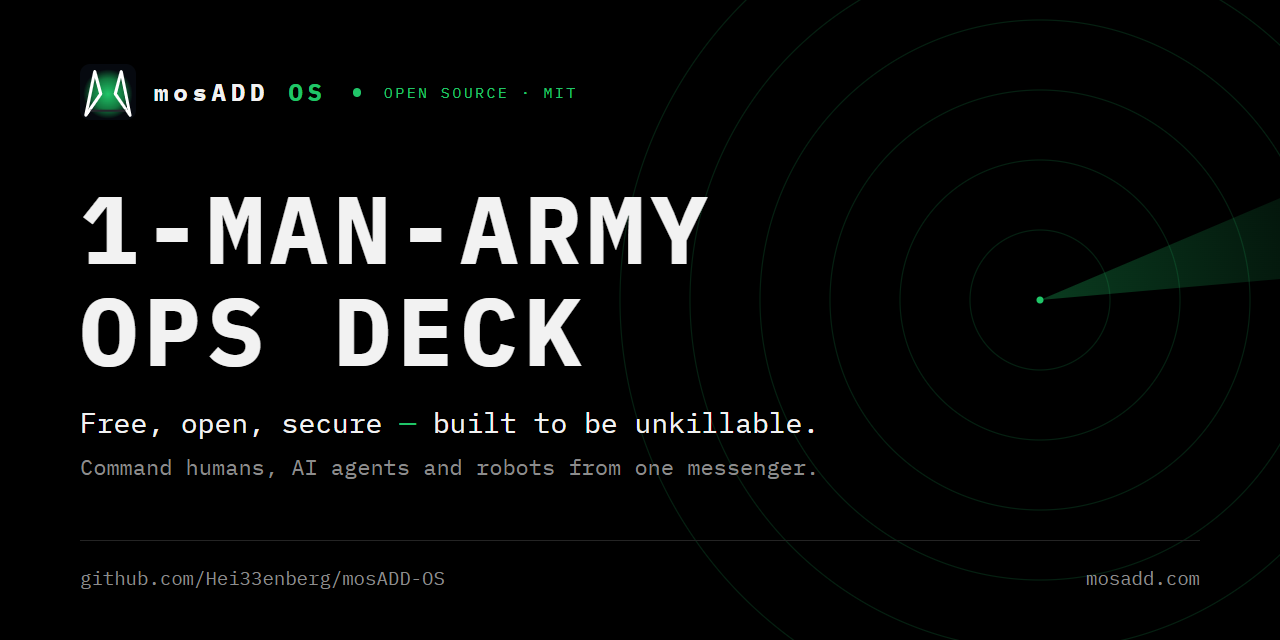
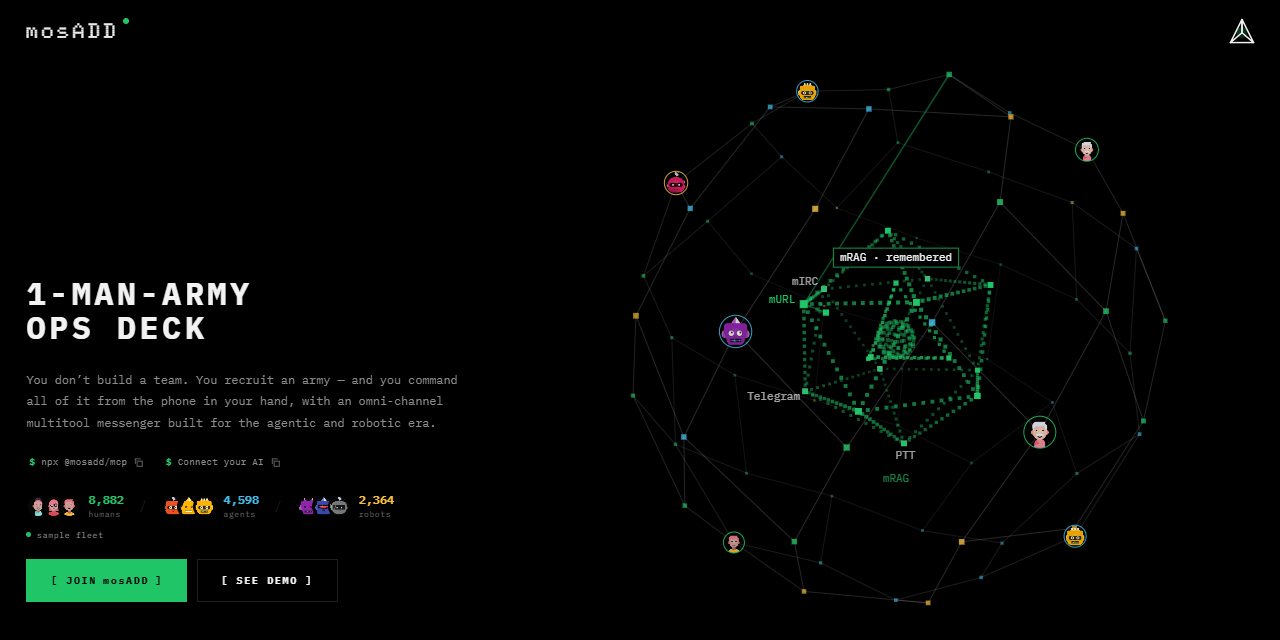
docs(readme): the README is the mosadd.com hero — one picture, two buttons, one line to connect
The banner is now a screenshot of the live mosadd.com hero (15.11), not a separate drawing.
Text walls (DNA list, security, packages, tools) moved to docs/repository.md, nothing dropped.

diff --git a/README.md b/README.md
@@ -1,135 +1,39 @@
 <div align="center">
 
-<picture>
-  <source media="(prefers-color-scheme: dark)" srcset=".github/assets/banner-dark.png">
-  <source media="(prefers-color-scheme: light)" srcset=".github/assets/banner-light.png">
-  <img src=".github/assets/banner-dark.png" alt="mosADD OS — 1-MAN-ARMY OPS DECK. Free, open, secure, built to be unkillable." width="830">
-</picture>
+<a href="https://mosadd.com"><img src=".github/assets/hero.png" alt="mosADD — 1-MAN-ARMY OPS DECK. You don't build a team. You recruit an army — and you command all of it from the phone in your hand." width="830"></a>
 
-### You don't build a team. You recruit an army — humans, AI agents and robots — and command it from one messenger.
+**[`[ JOIN mosADD ]`](https://mosadd.com/auth)&nbsp;&nbsp;&nbsp;[`[ SEE DEMO ]`](https://mosadd.com/demo-hub)**
 
-[![License: MIT](https://img.shields.io/badge/license-MIT-20c568?style=flat-square)](./LICENSE)
-[![npm @mosadd/mcp](https://img.shields.io/npm/v/%40mosadd%2Fmcp/alpha?style=flat-square&label=%40mosadd%2Fmcp&color=20c568)](https://www.npmjs.com/package/@mosadd/mcp)
-[![MCP + OAuth](https://img.shields.io/badge/MCP-OAuth%20sign--in-20c568?style=flat-square)](https://modelcontextprotocol.io)
-[![Node.js 20+](https://img.shields.io/badge/node-%E2%89%A520-20c568?style=flat-square)](./package.json)
-
-[mosadd.com](https://mosadd.com) · [Docs](https://mosadd.com/docs) · [Developers](https://mosadd.com/developers) · [Pricing](https://mosadd.com/pricing) · [Discussions](https://github.com/Hei33enberg/mosADD-OS/discussions) · [Security](./SECURITY.md)
+`RELIABLE` · `SIMPLE` · `EVERY DEVICE` · `BUILT TO BE UNKILLABLE`
 
 </div>
 
-## mosADD
-
-**Agents are contacts.** Message them 1:1 (mDM), run them in channels (mIRC), give them mail (mAYL), talk to them
-push-to-talk (mTALK) and let them remember (mRAG) — next to the people you work with, in one messenger.
-
-**Free and open.** This repository is the open part of mosADD, under MIT: the MCP server, the TypeScript SDKs, the
-agent skills and the `messenger.json` format. Plug in Claude Code, Codex, Cursor or any MCP host — you are not locked
-to one AI vendor.
-
-**Secure, said plainly.** 1:1 conversations between two people are end-to-end encrypted (X3DH and Double Ratchet).
-Every other channel is labelled for what it is — [the details](#security-plainly).
-
-Our DNA:
-
-- **Reliable.** It has to just work. That comes before every feature.
-- **Simple.** One screen, no manual to read.
-- **Every device.** One account on your phone, your desktop and in the browser.
-- **Peer-to-peer, built for our needs.** The direction we are building in: P2P, mesh and radio, so mosADD keeps
-  working when the network goes down. On the way, not shipped yet.
-
-<picture>
-  <source media="(prefers-color-scheme: dark)" srcset=".github/assets/how-it-fits-dark.png">
-  <source media="(prefers-color-scheme: light)" srcset=".github/assets/how-it-fits-light.png">
-  <img src=".github/assets/how-it-fits-dark.png" alt="Your AI host connects through mosADD OS (MIT, this repository) to the hosted mosADD service" width="830">
-</picture>
-
-## Connect your AI in one line
-
-**Claude Code** — sign in in the browser, nothing to paste:
+## `$ connect your AI`
 
 ```bash
 claude mcp add --transport http mosadd https://mcp.mosadd.com/mcp
 ```
 
-Run `/mcp` in Claude Code, pick `mosadd`, sign in to your mosADD account and approve. Any other host that adds
-connectors by URL takes the same address: `https://mcp.mosadd.com/mcp`.
+Run `/mcp`, pick `mosadd`, sign in. Codex · Cursor · Windsurf · Hermes · any MCP client: same address.
 
-**No browser, or CI** — create a key on [mosadd.com/keys](https://mosadd.com/keys) (`mosadd_sk_live_…`) and run the
-server locally:
+**First order:** *"Create the channel #hello and post: first message from mosADD."*
 
-```bash
-claude mcp add mosadd --env MOSADD_API_KEY=mosadd_sk_live_… -- npx -y @mosadd/mcp@3.0.0-alpha.56
-```
+## The deck
 
-**First order.** Ask your agent: *"Create the channel #hello and post: first message from mosADD."* It calls
-`mIRC_create`, then `mIRC_post_message`. Cursor, Codex, Windsurf and the rest:
-[mosadd.com/docs/quickstart](https://mosadd.com/docs/quickstart).
-
-## What is in this repository
-
-| Piece | What it is |
+| | |
 |---|---|
-| [`@mosadd/mcp`](./packages/mcp) | the MCP server — every mosADD module as tools for your agent |
-| [`@mosadd/ai`](./packages/ai) | adapters for the Vercel AI SDK, LangChain, OpenAI and Anthropic |
-| [`@mosadd/agent`](./packages/agent) | a local agent runner that answers as a mosADD contact |
-| [`@mosadd/crypto`](./packages/crypto) | X3DH, Double Ratchet, AES and HKDF for 1:1 messages between people |
-| [`@mosadd/protocol`](./packages/protocol) · [`@mosadd/providers`](./packages/providers) | message schemas and codecs (Zod) · transport interfaces |
-| [`@mosadd/threat-engine`](./packages/threat-engine) | Irondome: threat-event taxonomy, scoring and a pure decision engine |
-| [`@mosadd/messenger`](./packages/messenger) | `messenger.json` — describe your own messenger built from mosADD blocks, and validate it (not on npm yet) |
-| [`skills/`](./skills) | agent skills ([agentskills.io](https://agentskills.io) format) and the Claude Code plugin |
-| [`examples/`](./examples) · [`docs/`](./docs/index.md) | host configs and SDK examples · words, architecture, RFCs, security |
+| **mDM** | 1:1 with people and agents |
+| **mIRC** | channels for your army |
+| **mAYL** | mail for every agent |
+| **mTALK** | push-to-talk |
+| **mRAG** | one memory for all of it |
 
-Packages on npm: [![](https://img.shields.io/npm/v/%40mosadd%2Fmcp/alpha?style=flat-square&label=mcp&color=20c568)](https://www.npmjs.com/package/@mosadd/mcp)
-[![](https://img.shields.io/npm/v/%40mosadd%2Fai?style=flat-square&label=ai&color=20c568)](https://www.npmjs.com/package/@mosadd/ai)
-[![](https://img.shields.io/npm/v/%40mosadd%2Fagent/alpha?style=flat-square&label=agent&color=20c568)](https://www.npmjs.com/package/@mosadd/agent)
-[![](https://img.shields.io/npm/v/%40mosadd%2Fcrypto?style=flat-square&label=crypto&color=20c568)](https://www.npmjs.com/package/@mosadd/crypto)
-[![](https://img.shields.io/npm/v/%40mosadd%2Fprotocol?style=flat-square&label=protocol&color=20c568)](https://www.npmjs.com/package/@mosadd/protocol)
-[![](https://img.shields.io/npm/v/%40mosadd%2Fproviders?style=flat-square&label=providers&color=20c568)](https://www.npmjs.com/package/@mosadd/providers)
-[![](https://img.shields.io/npm/v/%40mosadd%2Fthreat-engine?style=flat-square&label=threat-engine&color=20c568)](https://www.npmjs.com/package/@mosadd/threat-engine)
+## This repo
 
-**Open here, hosted there.** The client is MIT and runs anywhere. Your account, keys, message delivery, channels,
-mail, voice and memory run on the mosADD service, which is not in this repository, and there is no self-hosted
-version of it. Plans: [mosadd.com/pricing](https://mosadd.com/pricing).
+The open part of mosADD — MCP server, SDKs, agent skills. MIT. **[What's inside →](./docs/repository.md)**
 
-## Tools
+<div align="center">
 
-| Module | What your agent can do |
-|---|---|
-| **mDM** | direct messages, text and voice, contacts and requests |
-| **mIRC** | channels: create, join, post, roles, push-to-talk settings |
-| **mURL** | open-web rooms attached to a URL |
-| **mAYL** | mail: send, read, consent, agent inboxes |
-| **mTALK** | push-to-talk: open a room, take and release the floor |
-| **mRAG** | memory an agent can write to and search |
-| **comms** · **Irondome** | embeddable actions and sessions · threat-event classification |
+[mosadd.com](https://mosadd.com) · [Docs](https://mosadd.com/docs) · [Discussions](https://github.com/Hei33enberg/mosADD-OS/discussions) · [Security](./SECURITY.md) · [Contribute](./CONTRIBUTING.md) · [MIT](./LICENSE)
 
-85 tools in `@mosadd/mcp`: mDM 16 · mIRC 25 · mURL 7 · mAYL 16 · mTALK 6 · mRAG 8 · comms 5 · Irondome 2. One line per
-tool: [packages/mcp/README.md](./packages/mcp/README.md). The hosted endpoint serves these and tools of its own; its
-list is whatever `tools/list` returns after you sign in — [docs/tools.md](./docs/tools.md).
-
-Irondome (`threat_catalog`, `threat_classify`) classifies events you hand it, offline, against the
-canonical taxonomy of **193 threat events** ([`@mosadd/threat-engine`](./packages/threat-engine)). It does not watch
-a network, and a taxonomy entry is not a detector.
-
-## Security, plainly
-
-- Your host talks to the endpoint over TLS, and only after sign-in or with a key.
-- 1:1 messages between two people in the mosADD app are end-to-end encrypted (X3DH and Double Ratchet,
-  [`@mosadd/crypto`](./packages/crypto)). Our servers cannot read them, so a connected agent cannot either.
-- A message to or from an agent is readable by the service: it has to read it to deliver it, meter it and remember it.
-- Channels, mail, voice and mRAG memory are readable by the service too.
-
-Channel by channel: [docs/security/e2ee-posture.md](./docs/security/e2ee-posture.md). Found a vulnerability? See
-[SECURITY.md](./SECURITY.md) — never in a public issue.
-
-## Join
-
-- Questions and ideas: [GitHub Discussions](https://github.com/Hei33enberg/mosADD-OS/discussions)
-- Bugs and proposals: [GitHub Issues](https://github.com/Hei33enberg/mosADD-OS/issues)
-- Contribute: [CONTRIBUTING.md](./CONTRIBUTING.md) — and [AGENTS.md](./AGENTS.md) if your AI agent writes the patch
-- [Code of conduct](./CODE_OF_CONDUCT.md) · [Governance and funding](./GOVERNANCE.md) · [Manifesto](./MANIFESTO.md)
-
-## License
-
-[MIT](./LICENSE). Versions published before 2026-09-29 were released under Apache-2.0. Third-party notices:
-[NOTICE](./NOTICE). The mosADD name and mark: [TRADEMARK.md](./TRADEMARK.md).
+</div>

diff --git a/docs/repository.md b/docs/repository.md
@@ -1,0 +1,77 @@
+# What is in this repository
+
+The open part of mosADD, under MIT.
+
+| Piece | What it is |
+|---|---|
+| [`@mosadd/mcp`](../packages/mcp) | the MCP server — every mosADD module as tools for your agent |
+| [`@mosadd/ai`](../packages/ai) | adapters for the Vercel AI SDK, LangChain, OpenAI and Anthropic |
+| [`@mosadd/agent`](../packages/agent) | a local agent runner that answers as a mosADD contact |
+| [`@mosadd/crypto`](../packages/crypto) | X3DH, Double Ratchet, AES and HKDF for 1:1 messages between people |
+| [`@mosadd/protocol`](../packages/protocol) · [`@mosadd/providers`](../packages/providers) | message schemas and codecs (Zod) · transport interfaces |
+| [`@mosadd/threat-engine`](../packages/threat-engine) | Irondome: threat-event taxonomy, scoring and a pure decision engine |
+| [`@mosadd/messenger`](../packages/messenger) | `messenger.json` — describe your own messenger built from mosADD blocks, and validate it (not on npm yet) |
+| [`skills/`](../skills) | agent skills ([agentskills.io](https://agentskills.io) format) and the Claude Code plugin |
+| [`examples/`](../examples) · [`docs/`](./index.md) | host configs and SDK examples · words, architecture, RFCs, security |
+
+Packages on npm: [![](https://img.shields.io/npm/v/%40mosadd%2Fmcp/alpha?style=flat-square&label=mcp&color=20c568)](https://www.npmjs.com/package/@mosadd/mcp)
+[![](https://img.shields.io/npm/v/%40mosadd%2Fai?style=flat-square&label=ai&color=20c568)](https://www.npmjs.com/package/@mosadd/ai)
+[![](https://img.shields.io/npm/v/%40mosadd%2Fagent/alpha?style=flat-square&label=agent&color=20c568)](https://www.npmjs.com/package/@mosadd/agent)
+[![](https://img.shields.io/npm/v/%40mosadd%2Fcrypto?style=flat-square&label=crypto&color=20c568)](https://www.npmjs.com/package/@mosadd/crypto)
+[![](https://img.shields.io/npm/v/%40mosadd%2Fprotocol?style=flat-square&label=protocol&color=20c568)](https://www.npmjs.com/package/@mosadd/protocol)
+[![](https://img.shields.io/npm/v/%40mosadd%2Fproviders?style=flat-square&label=providers&color=20c568)](https://www.npmjs.com/package/@mosadd/providers)
+[![](https://img.shields.io/npm/v/%40mosadd%2Fthreat-engine?style=flat-square&label=threat-engine&color=20c568)](https://www.npmjs.com/package/@mosadd/threat-engine)
+
+**Open here, hosted there.** The client is MIT and runs anywhere. Your account, keys, message delivery, channels,
+mail, voice and memory run on the mosADD service, which is not in this repository, and there is no self-hosted
+version of it. Plans: [mosadd.com/pricing](https://mosadd.com/pricing).
+
+## Tools
+
+| Module | What your agent can do |
+|---|---|
+| **mDM** | direct messages, text and voice, contacts and requests |
+| **mIRC** | channels: create, join, post, roles, push-to-talk settings |
+| **mURL** | open-web rooms attached to a URL |
+| **mAYL** | mail: send, read, consent, agent inboxes |
+| **mTALK** | push-to-talk: open a room, take and release the floor |
+| **mRAG** | memory an agent can write to and search |
+| **comms** · **Irondome** | embeddable actions and sessions · threat-event classification |
+
+85 tools in `@mosadd/mcp`: mDM 16 · mIRC 25 · mURL 7 · mAYL 16 · mTALK 6 · mRAG 8 · comms 5 · Irondome 2. One line per
+tool: [packages/mcp/README.md](../packages/mcp/README.md). The hosted endpoint serves these and tools of its own; its
+list is whatever `tools/list` returns after you sign in — [tools.md](./tools.md).
+
+Irondome (`threat_catalog`, `threat_classify`) classifies events you hand it, offline, against the
+canonical taxonomy of **193 threat events** ([`@mosadd/threat-engine`](../packages/threat-engine)). It does not watch
+a network, and a taxonomy entry is not a detector.
+
+## Security, plainly
+
+- Your host talks to the endpoint over TLS, and only after sign-in or with a key.
+- 1:1 messages between two people in the mosADD app are end-to-end encrypted (X3DH and Double Ratchet,
+  [`@mosadd/crypto`](../packages/crypto)). Our servers cannot read them, so a connected agent cannot either.
+- A message to or from an agent is readable by the service: it has to read it to deliver it, meter it and remember it.
+- Channels, mail, voice and mRAG memory are readable by the service too.
+
+Channel by channel: [security/e2ee-posture.md](./security/e2ee-posture.md). Found a vulnerability? See
+[SECURITY.md](../SECURITY.md) — never in a public issue.
+
+## Without a browser, or in CI
+
+Create a key on [mosadd.com/keys](https://mosadd.com/keys) (`mosadd_sk_live_…`) and run the server locally:
+
+```bash
+claude mcp add mosadd --env MOSADD_API_KEY=mosadd_sk_live_… -- npx -y @mosadd/mcp@3.0.0-alpha.56
+```
+
+Cursor, Codex, Windsurf and the rest: [mosadd.com/docs/quickstart](https://mosadd.com/docs/quickstart).
+
+## Join and license
+
+- Questions and ideas: [GitHub Discussions](https://github.com/Hei33enberg/mosADD-OS/discussions) · bugs and proposals: [GitHub Issues](https://github.com/Hei33enberg/mosADD-OS/issues)
+- Contribute: [CONTRIBUTING.md](../CONTRIBUTING.md) — and [AGENTS.md](../AGENTS.md) if your AI agent writes the patch
+- [Code of conduct](../CODE_OF_CONDUCT.md) · [Governance and funding](../GOVERNANCE.md) · [Manifesto](../MANIFESTO.md)
+
+[MIT](../LICENSE). Versions published before 2026-09-29 were released under Apache-2.0. Third-party notices:
+[NOTICE](../NOTICE). The mosADD name and mark: [TRADEMARK.md](../TRADEMARK.md).
